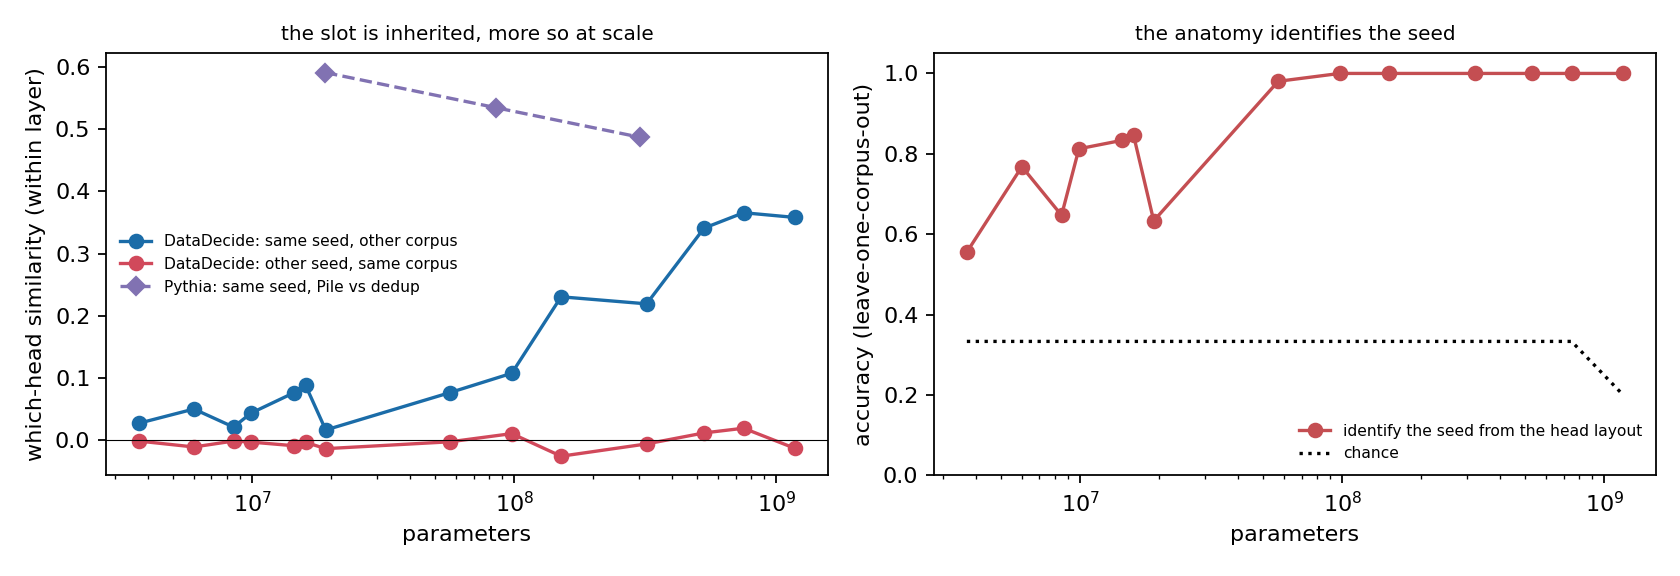
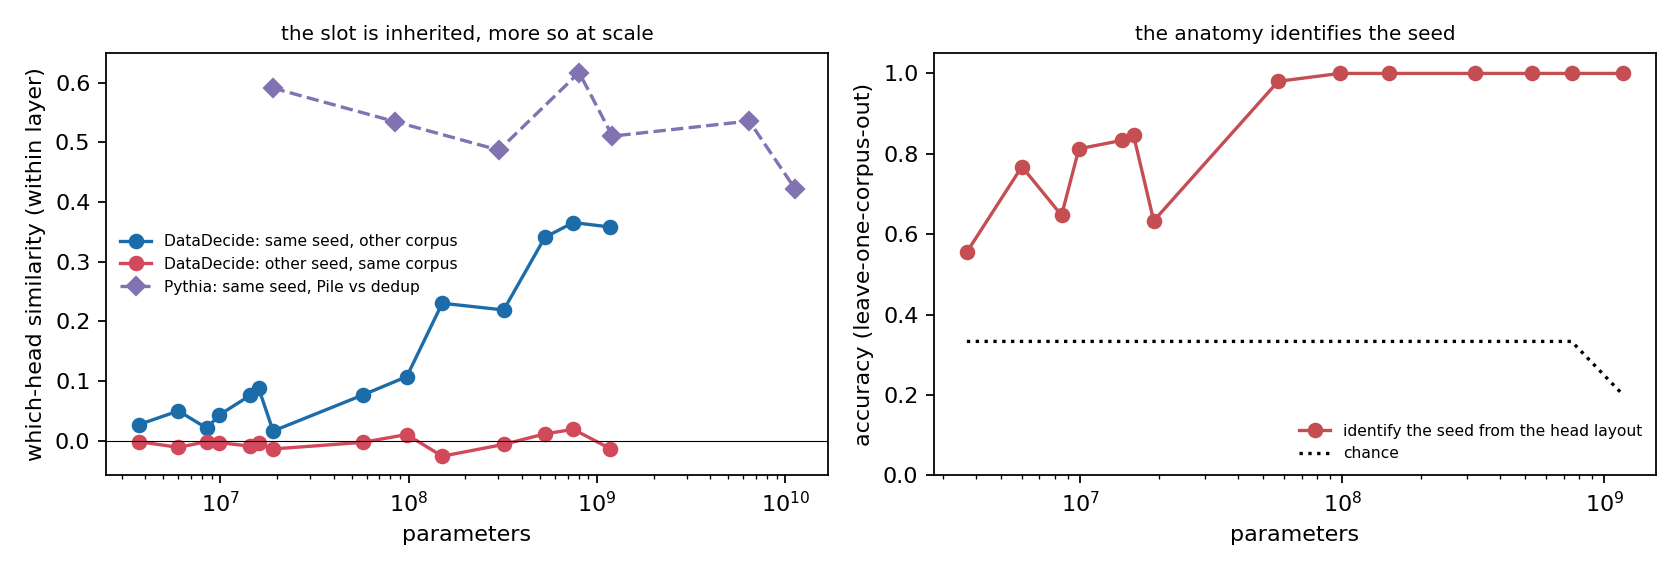
mechanism-population: Pythia 12B confirms inheritance to 12B (0.38-0.51 vs null 0.04; same strongest head in induction and prev-token layers); drafts updated, stale E46c claim removed from the scale paragraph

diff --git a/workbench/mechanism-population-dynamics/experiments/A06-results-draft.md b/workbench/mechanism-population-dynamics/experiments/A06-results-draft.md
@@ -23,7 +23,7 @@
 
 **Placement is inherited, and the data contributes nothing to it.** In the 1B crossing (3 seeds × 25 corpora, E35), two models grown from the same seed on different corpora agree on which head within a layer takes each role (within-layer Spearman 0.27–0.34 for induction, previous-token and retrieval maps), whereas two models grown on the same corpus from different seeds agree no more than chance (≈ 0.00). An unbiased two-way variance decomposition of every head's rank gives a data component of zero; the seed effect is significant in 56–80% of heads, and the data effect in 5–7%, the false-positive rate. The same holds with five seeds at 1B (within-layer 0.32 / 0.47 / 0.29) and for corpora that share no sources. Concretely, for one seed, head 12 of layer 7 is the strongest induction head in 14 of 25 corpora and head 13 of layer 12 the strongest retrieval head in 13 of 25 (chance: 1.6 of 25; Fig. 1).
 
-**Across scale, families, roles and measurements.** Inheritance is present at all 14 DataDecide sizes and grows monotonically with model size (Spearman with log parameters 0.81–0.92; Fig. 4a): it is weak up to 20M (within-layer 0.01–0.11), rises to 0.17–0.30 at 150M–300M and reaches 0.27–0.47 at 530M–1B. In the second family, Pythia's standard and deduplicated models — identical step-0 weights, Pile vs. deduplicated Pile — agree on head identity (within-layer 0.49–0.59 at 70M–410M) far above every pair of independently initialized PolyPythias seeds (≈ 0) [P: 1B–12B]. The result is not specific to the three roles: across all 75 1B models, duplicate-token, current-token, two-back, delimiter and sink heads are all seed-placed (within-layer 0.16–0.36 vs. −0.02–0.00 for different seeds; every CI excludes zero; E59), and so is a purely weight-based measure that involves no attention pattern at all, the OV copying score of Elhage et al. (0.21 vs. −0.01). Ablation-defined role maps are inherited in the same direction, though more weakly, as single-head ablations are blunted by redundancy (E42).
+**Across scale, families, roles and measurements.** Inheritance is present at all 14 DataDecide sizes and grows monotonically with model size (Spearman with log parameters 0.81–0.92; Fig. 4a): it is weak up to 20M (within-layer 0.01–0.11), rises to 0.17–0.30 at 150M–300M and reaches 0.27–0.47 at 530M–1B. In the second family, Pythia's standard and deduplicated models — identical step-0 weights, Pile vs. deduplicated Pile — agree on head identity (within-layer 0.49–0.59 at 70M–410M) far above every pair of independently initialized PolyPythias seeds (≈ 0), and the inheritance continues all the way to 12B (1B 0.56–0.72, 6.9B 0.49–0.60, 12B 0.38–0.51, each against a permutation 95th percentile of 0.04–0.16; E58). The result is not specific to the three roles: across all 75 1B models, duplicate-token, current-token, two-back, delimiter and sink heads are all seed-placed (within-layer 0.16–0.36 vs. −0.02–0.00 for different seeds; every CI excludes zero; E59), and so is a purely weight-based measure that involves no attention pattern at all, the OV copying score of Elhage et al. (0.21 vs. −0.01). Ablation-defined role maps are inherited in the same direction, though more weakly, as single-head ablations are blunted by redundancy (E42).
 
 **The seed can be read off the layout** (E61, Fig. 4b). Given a model trained on a corpus never paired with its seed, we compare its head layout with sibling models trained on other corpora and pick the seed whose siblings it resembles most. From 60M parameters upward this recovers the seed with 98–100% accuracy (chance 33%; 100% with five seeds at 1B, chance 20%); in Pythia, the true sibling ranks first among ten candidates at every size. SeedPrints (2026) identifies a weight lineage from output biases; the anatomy identifies independently trained siblings, although their weights retain a correlation of only 0.03–0.09 with the initialization. The layout is identifiable already at 3–4% of training (100% at 60M–300M; E61 on E57 checkpoints).
 
@@ -53,7 +53,7 @@
 
 **A corpus-distance law.** If the slot is chosen by symmetry breaking during the critical period, two corpora should yield the same slot to the extent that they present the same early-training statistics. Across DataDecide's recipe pairs, the Jensen–Shannon distance between the corpora's unigram distributions predicts how faithfully one seed's layout is reproduced on both, at every model size (E60, Fig. 6): Spearman −0.2 to −0.3 at 60M, −0.4 to −0.5 at 90M, −0.66 to −0.78 at 300M–750M, and −0.56 to −0.83 at 1B (Mantel permutation p ≤ 0.003 from 90M). The law holds unchanged on recipe pairs that share no data sources (−0.36 to −0.82) and after partialling out source overlap, so it reflects token statistics, not shared documents — and specifically content-word statistics, what the corpora are about: function-word distributions barely differ across English corpora and add nothing once content words are accounted for (partial ρ for content words −0.24 to −0.78; E64). All DataDecide recipes are English web text (JS ≤ 0.06); beyond that range, controlled pretraining shows the same law in the extreme: c4 and scientific papers (JS 0.13) share the slot (induction 0.19 ± 0.06 over 9 seeds), whereas any pair involving source code (JS 0.40–0.43) re-draws it (≈ 0; E46, E56). Pythia's standard and deduplicated Pile, nearly identical in their statistics, show the strongest inheritance of all, even at 70M (0.59).
 
-**Larger models are more innate.** Inheritance grows with model size (Fig. 4a), the corpus-distance law sharpens with model size (Fig. 6b), and both are already in place at the earliest checkpoints: at 10M–60M, same-seed agreement at 4–9% of training equals its final value (E57 [P: 150M–750M]), so small models do not inherit and then forget — they never inherit. What grows with scale is the recipe, not the parameter count: in controlled pretraining at fixed hyperparameters, a 30× larger model inherits no more than the small one (c4–papers 0.14 vs 0.19–0.24; E46b), and initialization scale and learning rate do not matter (E46c). Along the DataDecide ladder the batch grows from 32 to 704 sequences, and inheritance tracks it (0.02–0.11 at 32, 0.17–0.30 at 192–320, 0.27–0.47 at 448–704); Pythia, trained with 1024-sequence batches at every size, inherits strongly already at 70M.
+**Larger models are more innate.** Inheritance grows with model size (Fig. 3a; Spearman with log parameters 0.81–0.92), the corpus-distance law sharpens with model size (Fig. 5b), and both are in place from the earliest checkpoints: at 10M–60M, same-seed agreement at 4–9% of training already equals its final value — small models never inherit, rather than inheriting and forgetting — while at 150M–300M inheritance is complete by 3% of training (0.30–0.40, slightly above its final 0.17–0.37) and the seed is identifiable from the layout at that point (100%; E57, E61). What makes larger models more innate is the temperature at which they are trained: at fixed hyperparameters a 30× larger controlled model inherits no more than the small one (c4–papers 0.14 vs 0.19–0.24; E46b), whereas lowering the temperature at fixed size raises inheritance (§6). Along the DataDecide ladder the batch grows from 32 to 704 sequences and the learning rate falls from 1.4e-2 to 2.1e-3, so the learning rate per batch token falls 140-fold, and inheritance rises along it (0.02–0.11 at the hottest, 0.27–0.47 at the coldest); Pythia, trained with 1024-sequence batches at every size, is innate already at 70M.
 
 ## 7 Applications
 
@@ -77,7 +77,7 @@
 
 **Figure 2. Nature and nurture in one map.** Thirteen properties of the in-context copying mechanism, assigned to what determines them — universal, seed (nature), data (nurture) or neither — with the key statistic and experiment. Nature decides only which interchangeable unit hosts a role; nurture decides everything the model computes.
 
-**Figure 3. Nature at every scale, in two families.** (a) Within-layer agreement on which head takes a role, for same-seed / different-corpus pairs and different-seed / same-corpus pairs across 14 DataDecide sizes, and for Pythia's same-seed standard / deduplicated pairs up to [P: 12B]. (b) Same-seed models share a coordinate system but not its content: index-aligned similarity is high only within a seed, permutation- and rotation-invariant similarity is highest within a corpus.
+**Figure 3. Nature at every scale, in two families.** (a) Within-layer agreement on which head takes a role, for same-seed / different-corpus pairs and different-seed / same-corpus pairs across 14 DataDecide sizes, and for Pythia's same-seed standard / deduplicated pairs up to. (b) Same-seed models share a coordinate system but not its content: index-aligned similarity is high only within a seed, permutation- and rotation-invariant similarity is highest within a corpus.
 
 **Figure 4. Nature is written in a critical period.** (a) Controlled pretraining: similarity to the unbranched run after switching the corpus to code or adding Gaussian noise at step k. Interventions in the first 1% re-draw the slot; from 2.5% on, even noise as large as the weights returns the roles to their slots. (b) Public suites lock in during the same window.
 

diff --git a/workbench/mechanism-population-dynamics/experiments/A03-paper-outline.md b/workbench/mechanism-population-dynamics/experiments/A03-paper-outline.md
@@ -5,7 +5,7 @@
 (hook line for the first screen: *the weights forget the seed; the circuits remember it*)
 
 ## Abstract
-Where do a language model's circuits come from — its random initialization or its training data? We answer with seed × corpus crossings hidden in public pretraining suites: DataDecide (14 sizes, 4M–1B parameters, up to 25 corpora per seed) and Pythia (standard vs. deduplicated Pile, 70M–12B [P: 12B]). Language models turn out to have a nature and a nurture. **Nature decides where:** which head becomes an induction, previous-token, retrieval or any of six other head roles is inherited from the seed, identically across corpora, and the data contributes nothing — provably so, by the permutation symmetry of heads. The inheritance is so strong that a model's seed can be read off its circuit layout with 98–100% accuracy, although its weights retain a correlation of only 0.04 with their initial values: the weights forget the seed, the circuits remember it. **Nurture decides what:** what the model represents, how strong its circuits are, when they emerge and how it behaves come from the data; the seed has no main effect on any of 154 benchmark × size cells — there are no lucky seeds — and a 1% slice of instruction data writes a context-trust switch keyed to the literal template "Question:". Nature is written in a critical period: in controlled pretraining the slot is chosen in the first 1–2.5% of training and then defended even against noise as large as the weights. Two levers set how much of a model is nature: the temperature of SGD and the similarity of its corpora; because standard scaling recipes train larger models colder, larger models are more innate. Component-level interpretability findings therefore travel with the seed, not with the data, and data attribution explains whether a circuit forms but not where it lives.
+Where do a language model's circuits come from — its random initialization or its training data? We answer with seed × corpus crossings hidden in public pretraining suites: DataDecide (14 sizes, 4M–1B parameters, up to 25 corpora per seed) and Pythia (standard vs. deduplicated Pile, 70M–12B). Language models turn out to have a nature and a nurture. **Nature decides where:** which head becomes an induction, previous-token, retrieval or any of six other head roles is inherited from the seed, identically across corpora, and the data contributes nothing — provably so, by the permutation symmetry of heads. The inheritance is so strong that a model's seed can be read off its circuit layout with 98–100% accuracy, although its weights retain a correlation of only 0.04 with their initial values: the weights forget the seed, the circuits remember it. **Nurture decides what:** what the model represents, how strong its circuits are, when they emerge and how it behaves come from the data; the seed has no main effect on any of 154 benchmark × size cells — there are no lucky seeds — and a 1% slice of instruction data writes a context-trust switch keyed to the literal template "Question:". Nature is written in a critical period: in controlled pretraining the slot is chosen in the first 1–2.5% of training and then defended even against noise as large as the weights. Two levers set how much of a model is nature: the temperature of SGD and the similarity of its corpora; because standard scaling recipes train larger models colder, larger models are more innate. Component-level interpretability findings therefore travel with the seed, not with the data, and data attribution explains whether a circuit forms but not where it lives.
 
 ## 1. Introduction — first screen
 1. **Hook (the paradox).** Two LMs from one seed, different corpora: weights 96% decorrelated from the init, no seed effect on any benchmark — yet their circuits sit on the same heads, so reliably that the seed is identifiable from the layout (98–100%). The weights forget the seed; the circuits remember it. (Fig 1.)
@@ -25,7 +25,7 @@ Where do a language model's circuits come from — its random initialization or 
 - 2.3 Nine head-role maps (incl. weight-only OV copying), "which layer" vs "which head", variance components, permutation / bootstrap / Mantel tests; the determination map.
 
 ## 3. Nature decides where — and the weights forget it
-- 3.1 1B 3 × 25 crossing; 5 seeds at 1B; 14 sizes; Pythia 70M–6.9B [P: 2.8B, 12B]; 9 roles (E59); ablation maps (E42).
+- 3.1 1B 3 × 25 crossing; 5 seeds at 1B; 14 sizes; Pythia 70M–12B (12B: 0.38–0.51 vs permutation 95th pct 0.04; same strongest head in the induction and previous-token layers); 9 roles (E59); ablation maps (E42).
 - 3.2 Birth certificate: seed identification 98–100% from 60M (E61), already at 3–4% of training; Pythia sibling ranked 1 / 10.
 - 3.3 Universal: layer of each role; the algorithm (previous-token → induction in 75 / 75, E55).
 - 3.4 Weights forget, circuits remember (E43): weights r = 0.03–0.09; no linear connectivity; CKA / best-match content not inherited; residual coordinates inherited.

diff --git a/workbench/mechanism-population-dynamics/experiments/E58-pythia-to-12b.md b/workbench/mechanism-population-dynamics/experiments/E58-pythia-to-12b.md
@@ -20,3 +20,4 @@
 | 1.4B | 0.48 | 0.54 | 0.50 | 0.09 | 0.33–0.67（0.06） |
 | 6.9B | 0.53 | 0.60 | 0.49 | 0.05–0.06 | 0.67（0.03） |
 - 同初始化（标准 Pile vs 去重 Pile）的头身份在 70M–6.9B 的每个尺寸都远高于置换零分布；6.9B 的最强头一致率是随机的 22 倍。
+- **12B（2026-10-04 01:50）：** M1 0.38、M2 0.51、M4 0.38，置换零分布 95% 分位 0.04；角色层最强头一致率 1.00 / 1.00 / 0.33（随机 0.03）。→ **同初始化的头身份继承从 70M 一直延伸到 12B**，每个尺寸都远高于置换零分布。2.8B 去重版与 12B step 3000 仍在下载。
